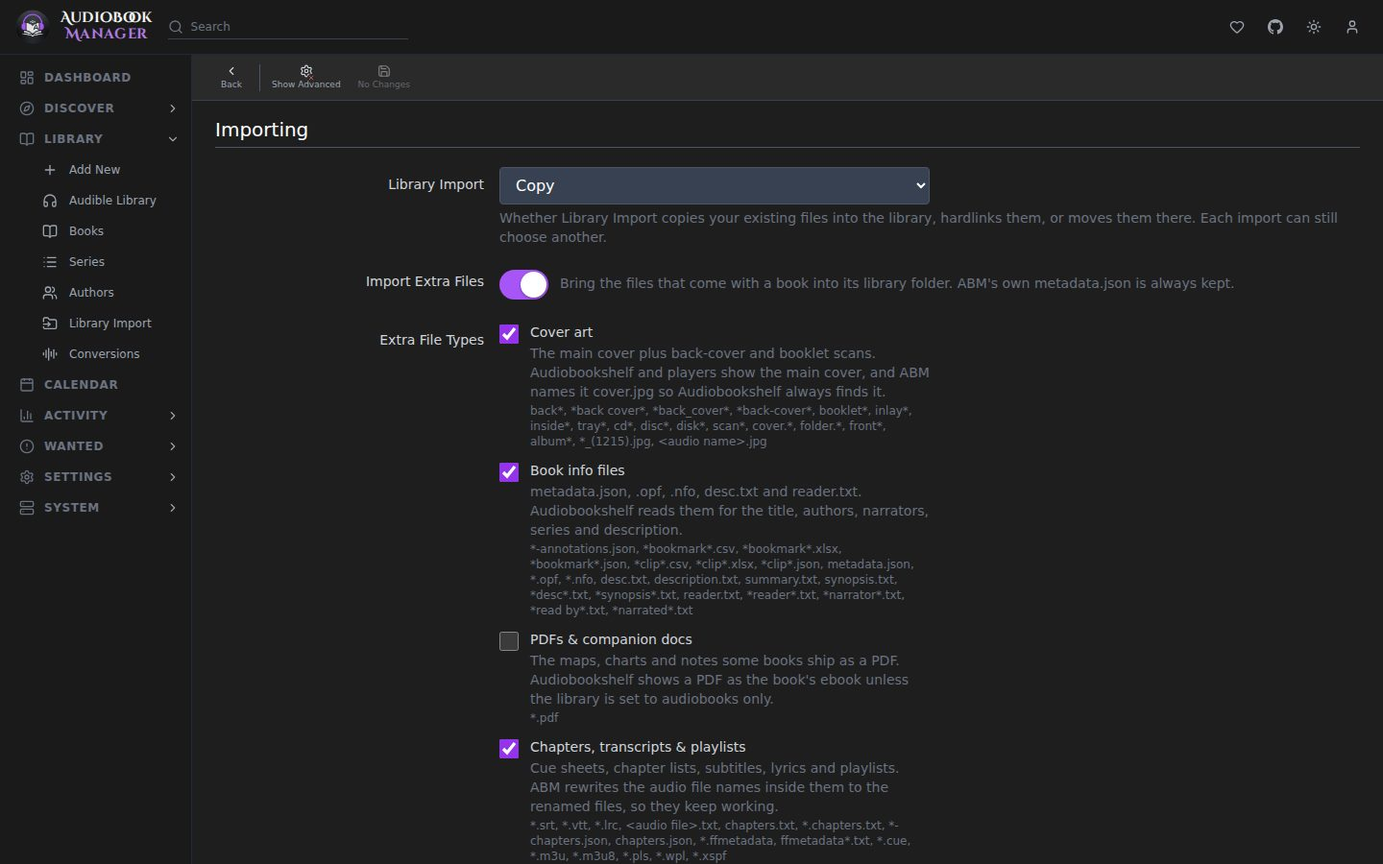
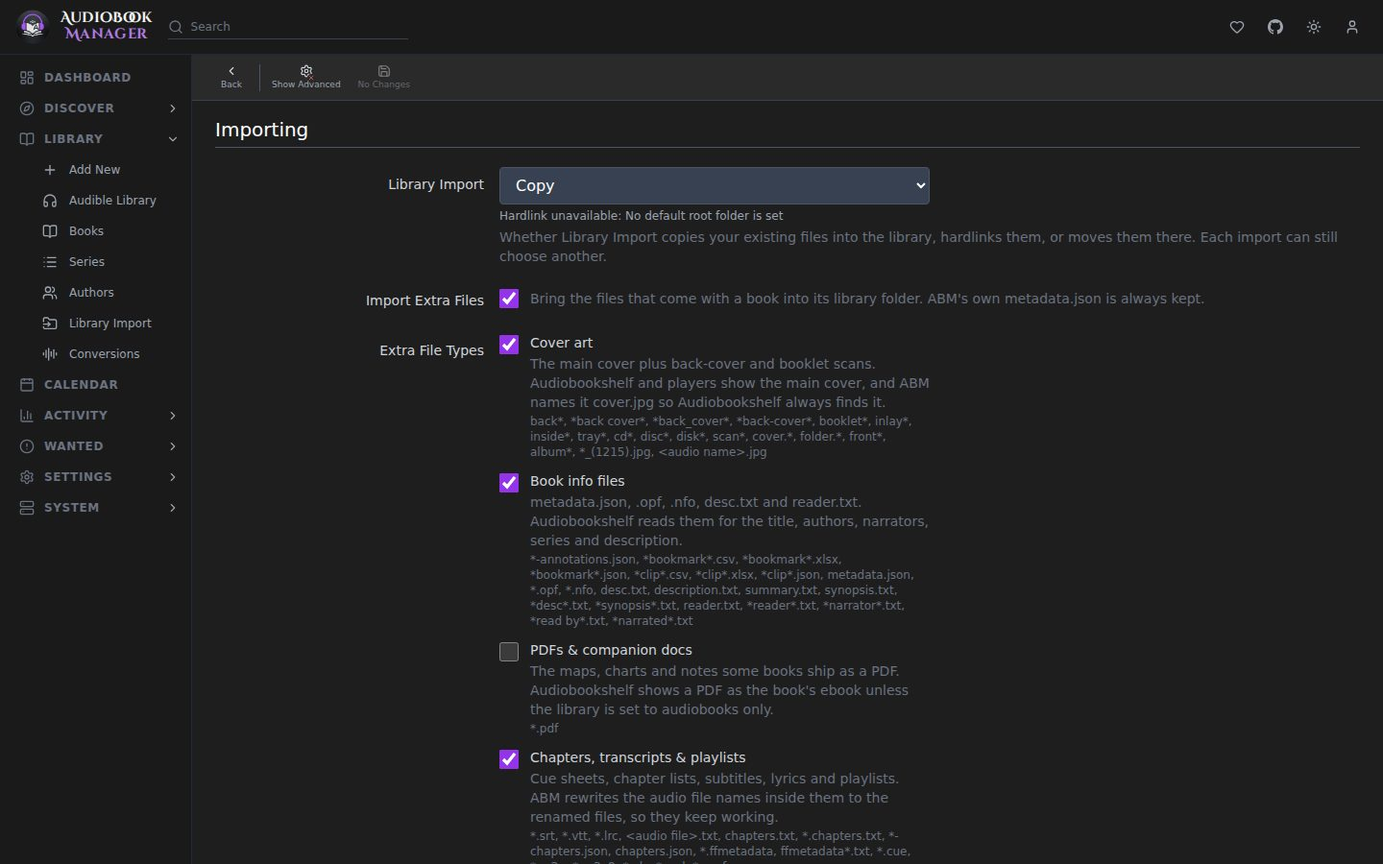
describe settings options as checkboxes instead of switches and refresh the settings screenshots

Changed region(s): [[0.25, 0.2489, 0.9688, 1.0]]

diff --git a/src/content/docs/using/sidecars.md b/src/content/docs/using/sidecars.md
@@ -5,7 +5,7 @@ description: The metadata.json, NFO, cover, OPF, description and narrator files 
 
 A sidecar is a small file beside the audio. Audiobookshelf and other players read them. ABM writes these:
 
-| File | Contents | Switch |
+| File | Contents | Setting |
 |---|---|---|
 | `metadata.json` | Audiobookshelf's own metadata file, plus an `abm` block that marks it as ABM's. Audiobookshelf reads it before anything else. It says whether the book is explicit and whether it is abridged; a flag ABM does not know is left out, so Audiobookshelf keeps its own value. It carries no tags, so tags you set in Audiobookshelf stay | None, always written |
 | `<audio file name>.nfo` | The title, author, narrator and series lines Audiobookshelf reads. Named after the book's first audio file, or after the book when it has no audio. ABM always overwrites it | None, always written |
@@ -18,9 +18,9 @@ Together with the folder layout, these are the files Audiobookshelf reads for a 
 
 ## When they are written
 
-`metadata.json` and the `.nfo` are written every time a book is added, imported or refreshed, whatever the switches say. That covers a finished download, an upgrade, a manual import, Library Import and a finished conversion. The `.opf` and `.nfo` leave out genres so a cleared genre stays cleared; genres are in `metadata.json` only. Books already in the library get these files on their next import or refresh.
+`metadata.json` and the `.nfo` are written every time a book is added, imported or refreshed, whatever the settings say. That covers a finished download, an upgrade, a manual import, Library Import and a finished conversion. The `.opf` and `.nfo` leave out genres so a cleared genre stays cleared; genres are in `metadata.json` only. Books already in the library get these files on their next import or refresh.
 
-The other four each have a switch under **Settings > Metadata > Files to Create**, all on by default. They are written only when the matching trigger is on as well: **Create on Book Add** (off), **Create on Import** (on, which covers downloads, Library Import and Audible downloads) and **Create on Refresh** (off). **Overwrite Existing** is off, so a file that is already there stays. Nothing is written until the book's folder exists.
+The other four each have a setting under **Settings > Metadata > Files to Create**, all on by default. They are written only when the matching trigger is on as well: **Create on Book Add** (off), **Create on Import** (on, which covers downloads, Library Import and Audible downloads) and **Create on Refresh** (off). **Overwrite Existing** is off, so a file that is already there stays. Nothing is written until the book's folder exists.
 
 The edit dialog's **Write to Directories** writes the four as well, for one book or a selection of series and authors. See [Metadata settings](/settings/metadata/).
 
@@ -42,6 +42,6 @@ A hardlinked import keeps the original untouched. When ABM writes any of these f
 
 - Besides these, **Backup Original Metadata** in [Conversion settings](/settings/conversions/) writes a JSON file to a `.metadata_backup` folder before a conversion. It is a record for you, not something a player reads.
 - A release `.nfo` is not imported unless you choose it, because ABM writes its own and Audiobookshelf reads one per book.
-- A `metadata.json` is handled by ABM when it carries ABM's own block. Another tool's `metadata.json` follows the Book info files switch.
+- A `metadata.json` is handled by ABM when it carries ABM's own block. Another tool's `metadata.json` follows the Book info files setting.
 - In a folder shared by several books, only files named after this book's audio belong to it.
 - Deleting a book's files removes its whole folder when no other book uses it. In a folder shared with another book, only that book's own files and ABM's `.opf`, `.nfo`, `desc.txt`, `reader.txt` and `metadata.json` go.

diff --git a/src/content/docs/settings/media-management.md b/src/content/docs/settings/media-management.md
@@ -30,13 +30,13 @@ The default root folder is the one new books go to and the one that decides whet
 | Minimum Free Space | 100 (MB) | An import that would leave less than this is refused |
 | Use Hardlinks instead of Copy | on | For completed downloads: hardlink instead of copy, so seeding does not double the space. Needs the same volume. |
 | Library Import | Copy | The default for [Library Import](/library-import/): copy, hardlink or move. Hardlink is grayed out until the default root has been checked and supports it. |
-| Import Extra Files | on | Master switch for bringing non-audio files along. Applies to Library Import, Manual Import and completed downloads |
+| Import Extra Files | on | Whether non-audio files come along at all. Applies to Library Import, Manual Import and completed downloads |
 | Extra File Extensions (advanced) | empty | More file types to bring along, kept under their own names, for example `srt, lrc`. With or without the dot, separated by commas or spaces. Blocked types, such as executables and partial downloads, can't be saved. Disabled while **Import Extra Files** is off |
 | Preferred Cover (advanced) | Matched | Matched edition's cover, or the folder's best image, when both exist |
 
-**Import Extra Files** brings a book's other files along with its audio. Five switches pick which kinds come along, and a file matching **Extra File Extensions** comes along even when its kind is switched off:
+**Import Extra Files** brings a book's other files along with its audio. Five options pick which kinds come along, and a file matching **Extra File Extensions** comes along even when its kind is off:
 
-| Switch | Default | Covers |
+| Option | Default | Covers |
 |---|---|---|
 | Cover art | on | Cover plus back-cover and booklet scans |
 | Book info files | on | metadata.json, .opf, desc.txt, reader.txt. A release .nfo stays behind unless you choose it |
@@ -65,7 +65,7 @@ A scan or refresh treats file extensions in any case (`Chapter 1.MP3`) and files
 
 ## Recycle Bin
 
-There is one recycle bin, set here. Inside it, `media/` holds deleted book files and `conversions/` holds the originals a conversion replaced when **Delete Original** is on. The one switch and the one retention above cover both. The Conversions page has no bin settings of its own, and the bin is never emptied by size, only by age.
+There is one recycle bin, set here. Inside it, `media/` holds deleted book files and `conversions/` holds the originals a conversion replaced when **Delete Original** is on. The one setting and the one retention above cover both. The Conversions page has no bin settings of its own, and the bin is never emptied by size, only by age.
 
 Keep the bin outside every root folder. A bin that is a root folder, sits inside one, or contains one is refused, and so is a protected folder. The refusal shows under the folder field the moment you pick or type the path, with the server's reason, so you find out before you press Save. System > Status still warns about a bin that already sits inside a root.
 

diff --git a/src/content/docs/en-au/settings/media-management.md b/src/content/docs/en-au/settings/media-management.md
@@ -26,13 +26,13 @@ The default root folder is the one new books go to and the one that decides whet
 | Minimum Free Space | 100 (MB) | An import that would leave less than this is refused |
 | Use Hardlinks instead of Copy | on | For completed downloads: hardlink instead of copy, so seeding does not double the space. Needs the same volume. |
 | Library Import | Copy | The default for [Library Import](/en-au/library-import/): copy, hardlink or move. Hardlink is greyed out until the default root has been checked and supports it. |
-| Import Extra Files | on | Master switch for bringing non-audio files along. Applies to Library Import, Manual Import and completed downloads |
+| Import Extra Files | on | Whether non-audio files come along at all. Applies to Library Import, Manual Import and completed downloads |
 | Extra File Extensions (advanced) | empty | More file types to bring along, kept under their own names, for example `srt, lrc`. With or without the dot, separated by commas or spaces. Blocked types, such as executables and partial downloads, can't be saved. Disabled while **Import Extra Files** is off |
 | Preferred Cover (advanced) | Matched | Matched edition's cover, or the folder's best image, when both exist |
 
-**Import Extra Files** brings a book's other files along with its audio. Five switches pick which kinds come along, and a file matching **Extra File Extensions** comes along even when its kind is switched off:
+**Import Extra Files** brings a book's other files along with its audio. Five options pick which kinds come along, and a file matching **Extra File Extensions** comes along even when its kind is off:
 
-| Switch | Default | Covers |
+| Option | Default | Covers |
 |---|---|---|
 | Cover art | on | Cover plus back-cover and booklet scans |
 | Book info files | on | metadata.json, .opf, .nfo, desc.txt, reader.txt |
@@ -59,7 +59,7 @@ Hardlink is not the same as **Use Hardlinks instead of Copy**. That one is for d
 
 ## Recycle Bin
 
-There is one recycle bin, set here. Inside it, `media/` holds deleted book files and `conversions/` holds the originals a conversion replaced when **Delete Original** is on. The one switch and the one retention above cover both. The Conversions page has no bin settings of its own, and the bin is never emptied by size, only by age.
+There is one recycle bin, set here. Inside it, `media/` holds deleted book files and `conversions/` holds the originals a conversion replaced when **Delete Original** is on. The one setting and the one retention above cover both. The Conversions page has no bin settings of its own, and the bin is never emptied by size, only by age.
 
 Keep the bin outside every root folder. A bin that is a root folder, sits inside one, or contains one is refused, and so is a protected folder. The refusal shows under the folder field the moment you pick or type the path, with the server's reason, so you find out before you press Save. System > Status still warns about a bin that already sits inside a root.
 

diff --git a/src/content/docs/en-ca/settings/media-management.md b/src/content/docs/en-ca/settings/media-management.md
@@ -26,13 +26,13 @@ The default root folder is the one new books go to and the one that decides whet
 | Minimum Free Space | 100 (MB) | An import that would leave less than this is refused |
 | Use Hardlinks instead of Copy | on | For completed downloads: hardlink instead of copy, so seeding does not double the space. Needs the same volume. |
 | Library Import | Copy | The default for [Library Import](/en-ca/library-import/): copy, hardlink or move. Hardlink is greyed out until the default root has been checked and supports it. |
-| Import Extra Files | on | Master switch for bringing non-audio files along. Applies to Library Import, Manual Import and completed downloads |
+| Import Extra Files | on | Whether non-audio files come along at all. Applies to Library Import, Manual Import and completed downloads |
 | Extra File Extensions (advanced) | empty | More file types to bring along, kept under their own names, for example `srt, lrc`. With or without the dot, separated by commas or spaces. Blocked types, such as executables and partial downloads, can't be saved. Disabled while **Import Extra Files** is off |
 | Preferred Cover (advanced) | Matched | Matched edition's cover, or the folder's best image, when both exist |
 
-**Import Extra Files** brings a book's other files along with its audio. Five switches pick which kinds come along, and a file matching **Extra File Extensions** comes along even when its kind is switched off:
+**Import Extra Files** brings a book's other files along with its audio. Five options pick which kinds come along, and a file matching **Extra File Extensions** comes along even when its kind is off:
 
-| Switch | Default | Covers |
+| Option | Default | Covers |
 |---|---|---|
 | Cover art | on | Cover plus back-cover and booklet scans |
 | Book info files | on | metadata.json, .opf, .nfo, desc.txt, reader.txt |
@@ -59,7 +59,7 @@ Hardlink is not the same as **Use Hardlinks instead of Copy**. That one is for d
 
 ## Recycle Bin
 
-There is one recycle bin, set here. Inside it, `media/` holds deleted book files and `conversions/` holds the originals a conversion replaced when **Delete Original** is on. The one switch and the one retention above cover both. The Conversions page has no bin settings of its own, and the bin is never emptied by size, only by age.
+There is one recycle bin, set here. Inside it, `media/` holds deleted book files and `conversions/` holds the originals a conversion replaced when **Delete Original** is on. The one setting and the one retention above cover both. The Conversions page has no bin settings of its own, and the bin is never emptied by size, only by age.
 
 Keep the bin outside every root folder. A bin that is a root folder, sits inside one, or contains one is refused, and so is a protected folder. The refusal shows under the folder field the moment you pick or type the path, with the server's reason, so you find out before you press Save. System > Status still warns about a bin that already sits inside a root.
 

diff --git a/src/content/docs/en-gb/settings/media-management.md b/src/content/docs/en-gb/settings/media-management.md
@@ -26,13 +26,13 @@ The default root folder is the one new books go to and the one that decides whet
 | Minimum Free Space | 100 (MB) | An import that would leave less than this is refused |
 | Use Hardlinks instead of Copy | on | For completed downloads: hardlink instead of copy, so seeding does not double the space. Needs the same volume. |
 | Library Import | Copy | The default for [Library Import](/en-gb/library-import/): copy, hardlink or move. Hardlink is greyed out until the default root has been checked and supports it. |
-| Import Extra Files | on | Master switch for bringing non-audio files along. Applies to Library Import, Manual Import and completed downloads |
+| Import Extra Files | on | Whether non-audio files come along at all. Applies to Library Import, Manual Import and completed downloads |
 | Extra File Extensions (advanced) | empty | More file types to bring along, kept under their own names, for example `srt, lrc`. With or without the dot, separated by commas or spaces. Blocked types, such as executables and partial downloads, can't be saved. Disabled while **Import Extra Files** is off |
 | Preferred Cover (advanced) | Matched | Matched edition's cover, or the folder's best image, when both exist |
 
-**Import Extra Files** brings a book's other files along with its audio. Five switches pick which kinds come along, and a file matching **Extra File Extensions** comes along even when its kind is switched off:
+**Import Extra Files** brings a book's other files along with its audio. Five options pick which kinds come along, and a file matching **Extra File Extensions** comes along even when its kind is off:
 
-| Switch | Default | Covers |
+| Option | Default | Covers |
 |---|---|---|
 | Cover art | on | Cover plus back-cover and booklet scans |
 | Book info files | on | metadata.json, .opf, .nfo, desc.txt, reader.txt |
@@ -59,7 +59,7 @@ Hardlink is not the same as **Use Hardlinks instead of Copy**. That one is for d
 
 ## Recycle Bin
 
-There is one recycle bin, set here. Inside it, `media/` holds deleted book files and `conversions/` holds the originals a conversion replaced when **Delete Original** is on. The one switch and the one retention above cover both. The Conversions page has no bin settings of its own, and the bin is never emptied by size, only by age.
+There is one recycle bin, set here. Inside it, `media/` holds deleted book files and `conversions/` holds the originals a conversion replaced when **Delete Original** is on. The one setting and the one retention above cover both. The Conversions page has no bin settings of its own, and the bin is never emptied by size, only by age.
 
 Keep the bin outside every root folder. A bin that is a root folder, sits inside one, or contains one is refused, and so is a protected folder. The refusal shows under the folder field the moment you pick or type the path, with the server's reason, so you find out before you press Save. System > Status still warns about a bin that already sits inside a root.
 

diff --git a/src/content/docs/en-au/using/sidecars.md b/src/content/docs/en-au/using/sidecars.md
@@ -5,7 +5,7 @@ description: The metadata.json, cover, OPF, description and narrator files ABM w
 
 A sidecar is a small file beside the audio. Audiobookshelf and other players read them. ABM writes these:
 
-| File | Contents | Switch |
+| File | Contents | Setting |
 |---|---|---|
 | `metadata.json` | Audiobookshelf's own metadata file, plus an `abm` block that marks it as ABM's. Audiobookshelf reads it before anything else | None, always written |
 | `cover.jpg` | The book's cover. Not written when the folder already has a `cover.*` | cover.jpg |
@@ -19,7 +19,7 @@ Together with the folder layout, these are the files Audiobookshelf reads for a 
 
 `metadata.json` is written every time a book is added, imported or refreshed.
 
-The other four each have a switch under **Settings > Metadata > Files to Create**, all on by default. They are written only when the matching trigger is on as well: **Create on Book Add** (off), **Create on Import** (on, which covers downloads, Library Import and Audible downloads) and **Create on Refresh** (off). **Overwrite Existing** is off, so a file that is already there stays. Nothing is written until the book's folder exists.
+The other four each have a setting under **Settings > Metadata > Files to Create**, all on by default. They are written only when the matching trigger is on as well: **Create on Book Add** (off), **Create on Import** (on, which covers downloads, Library Import and Audible downloads) and **Create on Refresh** (off). **Overwrite Existing** is off, so a file that is already there stays. Nothing is written until the book's folder exists.
 
 The edit dialog's **Write to Directories** writes the four as well, for one book or a selection of series and authors. See [Metadata settings](/en-au/settings/metadata/).
 
@@ -37,6 +37,6 @@ A hardlinked import keeps the original untouched. When ABM writes any of these f
 
 ## Gotchas
 
-- A `metadata.json` is handled by ABM when it carries ABM's own block. Another tool's `metadata.json` follows the Book info files switch.
+- A `metadata.json` is handled by ABM when it carries ABM's own block. Another tool's `metadata.json` follows the Book info files setting.
 - In a folder shared by several books, only files named after this book's audio belong to it.
 - Deleting a book removes its sidecars when they are named after that book's files.

diff --git a/src/content/docs/en-ca/using/sidecars.md b/src/content/docs/en-ca/using/sidecars.md
@@ -5,7 +5,7 @@ description: The metadata.json, cover, OPF, description and narrator files ABM w
 
 A sidecar is a small file beside the audio. Audiobookshelf and other players read them. ABM writes these:
 
-| File | Contents | Switch |
+| File | Contents | Setting |
 |---|---|---|
 | `metadata.json` | Audiobookshelf's own metadata file, plus an `abm` block that marks it as ABM's. Audiobookshelf reads it before anything else | None, always written |
 | `cover.jpg` | The book's cover. Not written when the folder already has a `cover.*` | cover.jpg |
@@ -19,7 +19,7 @@ Together with the folder layout, these are the files Audiobookshelf reads for a 
 
 `metadata.json` is written every time a book is added, imported or refreshed.
 
-The other four each have a switch under **Settings > Metadata > Files to Create**, all on by default. They are written only when the matching trigger is on as well: **Create on Book Add** (off), **Create on Import** (on, which covers downloads, Library Import and Audible downloads) and **Create on Refresh** (off). **Overwrite Existing** is off, so a file that is already there stays. Nothing is written until the book's folder exists.
+The other four each have a setting under **Settings > Metadata > Files to Create**, all on by default. They are written only when the matching trigger is on as well: **Create on Book Add** (off), **Create on Import** (on, which covers downloads, Library Import and Audible downloads) and **Create on Refresh** (off). **Overwrite Existing** is off, so a file that is already there stays. Nothing is written until the book's folder exists.
 
 The edit dialog's **Write to Directories** writes the four as well, for one book or a selection of series and authors. See [Metadata settings](/en-ca/settings/metadata/).
 
@@ -37,6 +37,6 @@ A hardlinked import keeps the original untouched. When ABM writes any of these f
 
 ## Gotchas
 
-- A `metadata.json` is handled by ABM when it carries ABM's own block. Another tool's `metadata.json` follows the Book info files switch.
+- A `metadata.json` is handled by ABM when it carries ABM's own block. Another tool's `metadata.json` follows the Book info files setting.
 - In a folder shared by several books, only files named after this book's audio belong to it.
 - Deleting a book removes its sidecars when they are named after that book's files.

diff --git a/src/content/docs/en-gb/using/sidecars.md b/src/content/docs/en-gb/using/sidecars.md
@@ -5,7 +5,7 @@ description: The metadata.json, cover, OPF, description and narrator files ABM w
 
 A sidecar is a small file beside the audio. Audiobookshelf and other players read them. ABM writes these:
 
-| File | Contents | Switch |
+| File | Contents | Setting |
 |---|---|---|
 | `metadata.json` | Audiobookshelf's own metadata file, plus an `abm` block that marks it as ABM's. Audiobookshelf reads it before anything else | None, always written |
 | `cover.jpg` | The book's cover. Not written when the folder already has a `cover.*` | cover.jpg |
@@ -19,7 +19,7 @@ Together with the folder layout, these are the files Audiobookshelf reads for a 
 
 `metadata.json` is written every time a book is added, imported or refreshed.
 
-The other four each have a switch under **Settings > Metadata > Files to Create**, all on by default. They are written only when the matching trigger is on as well: **Create on Book Add** (off), **Create on Import** (on, which covers downloads, Library Import and Audible downloads) and **Create on Refresh** (off). **Overwrite Existing** is off, so a file that is already there stays. Nothing is written until the book's folder exists.
+The other four each have a setting under **Settings > Metadata > Files to Create**, all on by default. They are written only when the matching trigger is on as well: **Create on Book Add** (off), **Create on Import** (on, which covers downloads, Library Import and Audible downloads) and **Create on Refresh** (off). **Overwrite Existing** is off, so a file that is already there stays. Nothing is written until the book's folder exists.
 
 The edit dialog's **Write to Directories** writes the four as well, for one book or a selection of series and authors. See [Metadata settings](/en-gb/settings/metadata/).
 
@@ -37,6 +37,6 @@ A hardlinked import keeps the original untouched. When ABM writes any of these f
 
 ## Gotchas
 
-- A `metadata.json` is handled by ABM when it carries ABM's own block. Another tool's `metadata.json` follows the Book info files switch.
+- A `metadata.json` is handled by ABM when it carries ABM's own block. Another tool's `metadata.json` follows the Book info files setting.
 - In a folder shared by several books, only files named after this book's audio belong to it.
 - Deleting a book removes its sidecars when they are named after that book's files.

diff --git a/src/content/docs/en-au/library-import.md b/src/content/docs/en-au/library-import.md
@@ -72,6 +72,6 @@ A row can also be answered **Delete these files, keep the library copy** to decl
 
 ## Cover and extra files per folder
 
-The inspector shows the folder's own cover beside the matched edition's, each with its pixel size. One click picks the other. Below it, **Extra files** lists every other file under the name of the Media Management switch it follows. A dot marks a choice that differs from the settings, and **Apply this cover and these file choices to the N other selected** copies one folder's choices to the rest. A row that adds files to a book already in the library has no picker.
+The inspector shows the folder's own cover beside the matched edition's, each with its pixel size. One click picks the other. Below it, **Extra files** lists every other file under the name of the Media Management setting it follows. A dot marks a choice that differs from the settings, and **Apply this cover and these file choices to the N other selected** copies one folder's choices to the rest. A row that adds files to a book already in the library has no picker.
 
 See also [Moving a library in](/en-au/guides/moving-a-library-in/) and [Media Management](/en-au/settings/media-management/).

diff --git a/src/content/docs/en-ca/library-import.md b/src/content/docs/en-ca/library-import.md
@@ -72,6 +72,6 @@ A row can also be answered **Delete these files, keep the library copy** to decl
 
 ## Cover and extra files per folder
 
-The inspector shows the folder's own cover beside the matched edition's, each with its pixel size. One click picks the other. Below it, **Extra files** lists every other file under the name of the Media Management switch it follows. A dot marks a choice that differs from the settings, and **Apply this cover and these file choices to the N other selected** copies one folder's choices to the rest. A row that adds files to a book already in the library has no picker.
+The inspector shows the folder's own cover beside the matched edition's, each with its pixel size. One click picks the other. Below it, **Extra files** lists every other file under the name of the Media Management setting it follows. A dot marks a choice that differs from the settings, and **Apply this cover and these file choices to the N other selected** copies one folder's choices to the rest. A row that adds files to a book already in the library has no picker.
 
 See also [Moving a library in](/en-ca/guides/moving-a-library-in/) and [Media Management](/en-ca/settings/media-management/).

diff --git a/src/content/docs/en-gb/library-import.md b/src/content/docs/en-gb/library-import.md
@@ -72,6 +72,6 @@ A row can also be answered **Delete these files, keep the library copy** to decl
 
 ## Cover and extra files per folder
 
-The inspector shows the folder's own cover beside the matched edition's, each with its pixel size. One click picks the other. Below it, **Extra files** lists every other file under the name of the Media Management switch it follows. A dot marks a choice that differs from the settings, and **Apply this cover and these file choices to the N other selected** copies one folder's choices to the rest. A row that adds files to a book already in the library has no picker.
+The inspector shows the folder's own cover beside the matched edition's, each with its pixel size. One click picks the other. Below it, **Extra files** lists every other file under the name of the Media Management setting it follows. A dot marks a choice that differs from the settings, and **Apply this cover and these file choices to the N other selected** copies one folder's choices to the rest. A row that adds files to a book already in the library has no picker.
 
 See also [Moving a library in](/en-gb/guides/moving-a-library-in/) and [Media Management](/en-gb/settings/media-management/).

diff --git a/src/content/docs/library-import.md b/src/content/docs/library-import.md
@@ -76,6 +76,6 @@ A row can also be answered **Delete these files, keep the library copy** to decl
 
 ## Cover and extra files per folder
 
-The inspector shows the folder's own cover beside the matched edition's, each with its pixel size. One click picks the other. Below it, **Extra files** lists every other file under the name of the Media Management switch it follows. A dot marks a choice that differs from the settings, and **Apply this cover and these file choices to the N other selected** copies one folder's choices to the rest. A row that adds files to a book already in the library has no picker.
+The inspector shows the folder's own cover beside the matched edition's, each with its pixel size. One click picks the other. Below it, **Extra files** lists every other file under the name of the Media Management setting it follows. A dot marks a choice that differs from the settings, and **Apply this cover and these file choices to the N other selected** copies one folder's choices to the rest. A row that adds files to a book already in the library has no picker.
 
 See also [Moving a library in](/guides/moving-a-library-in/) and [Media Management](/settings/media-management/).
